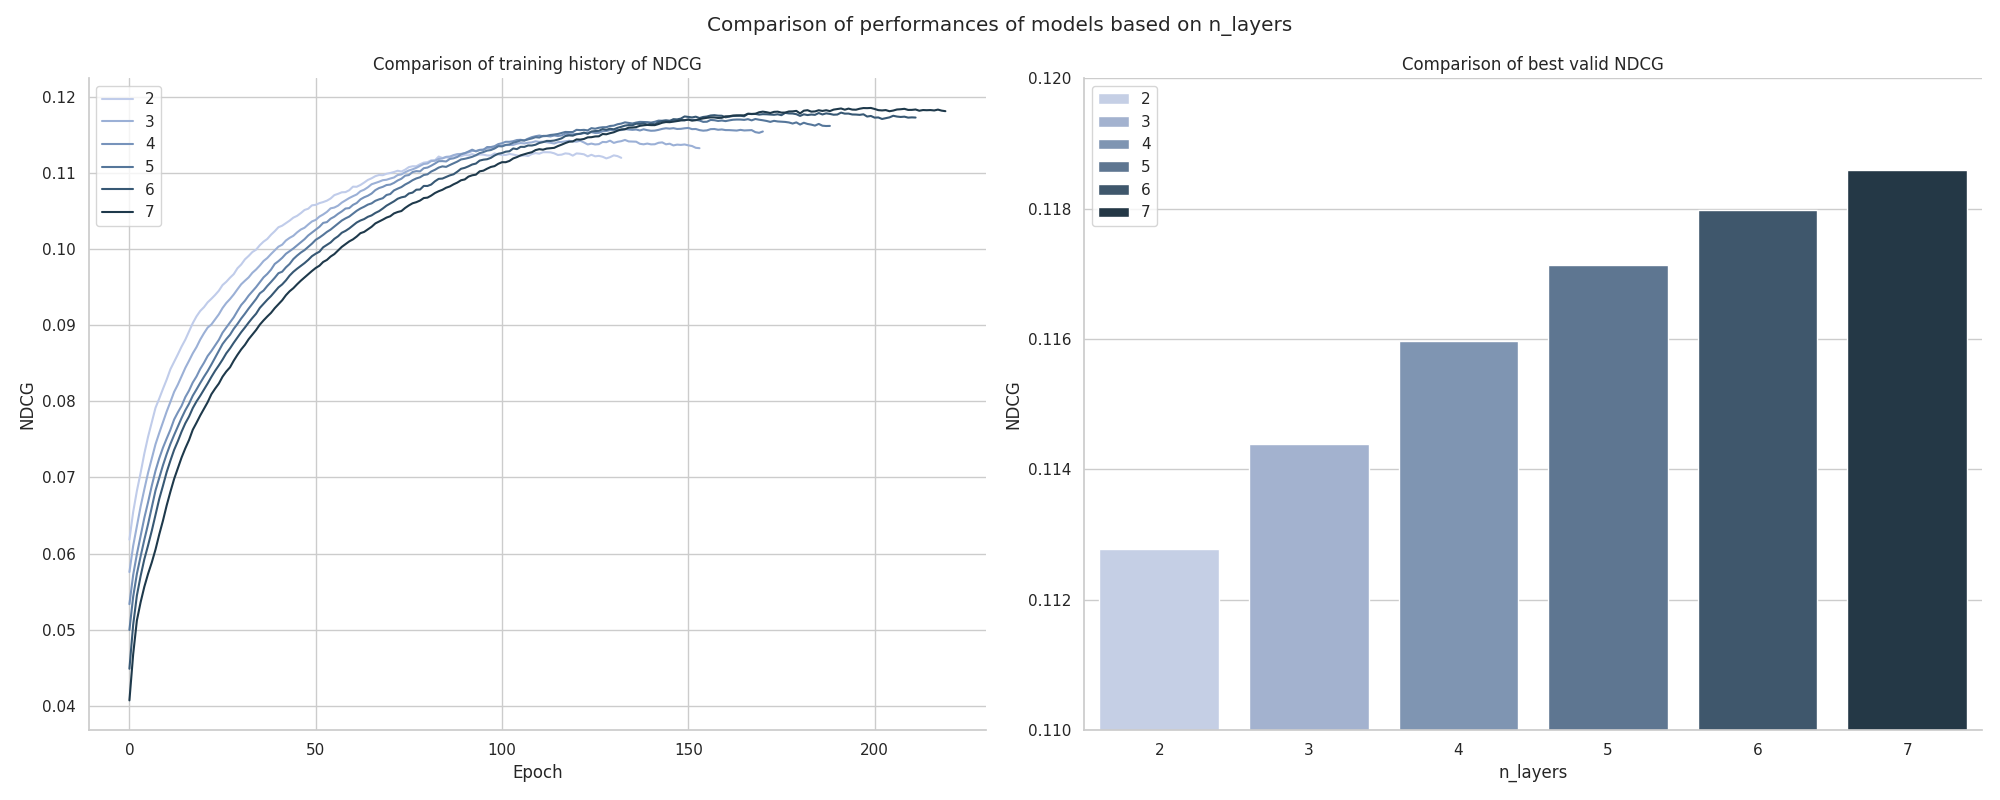
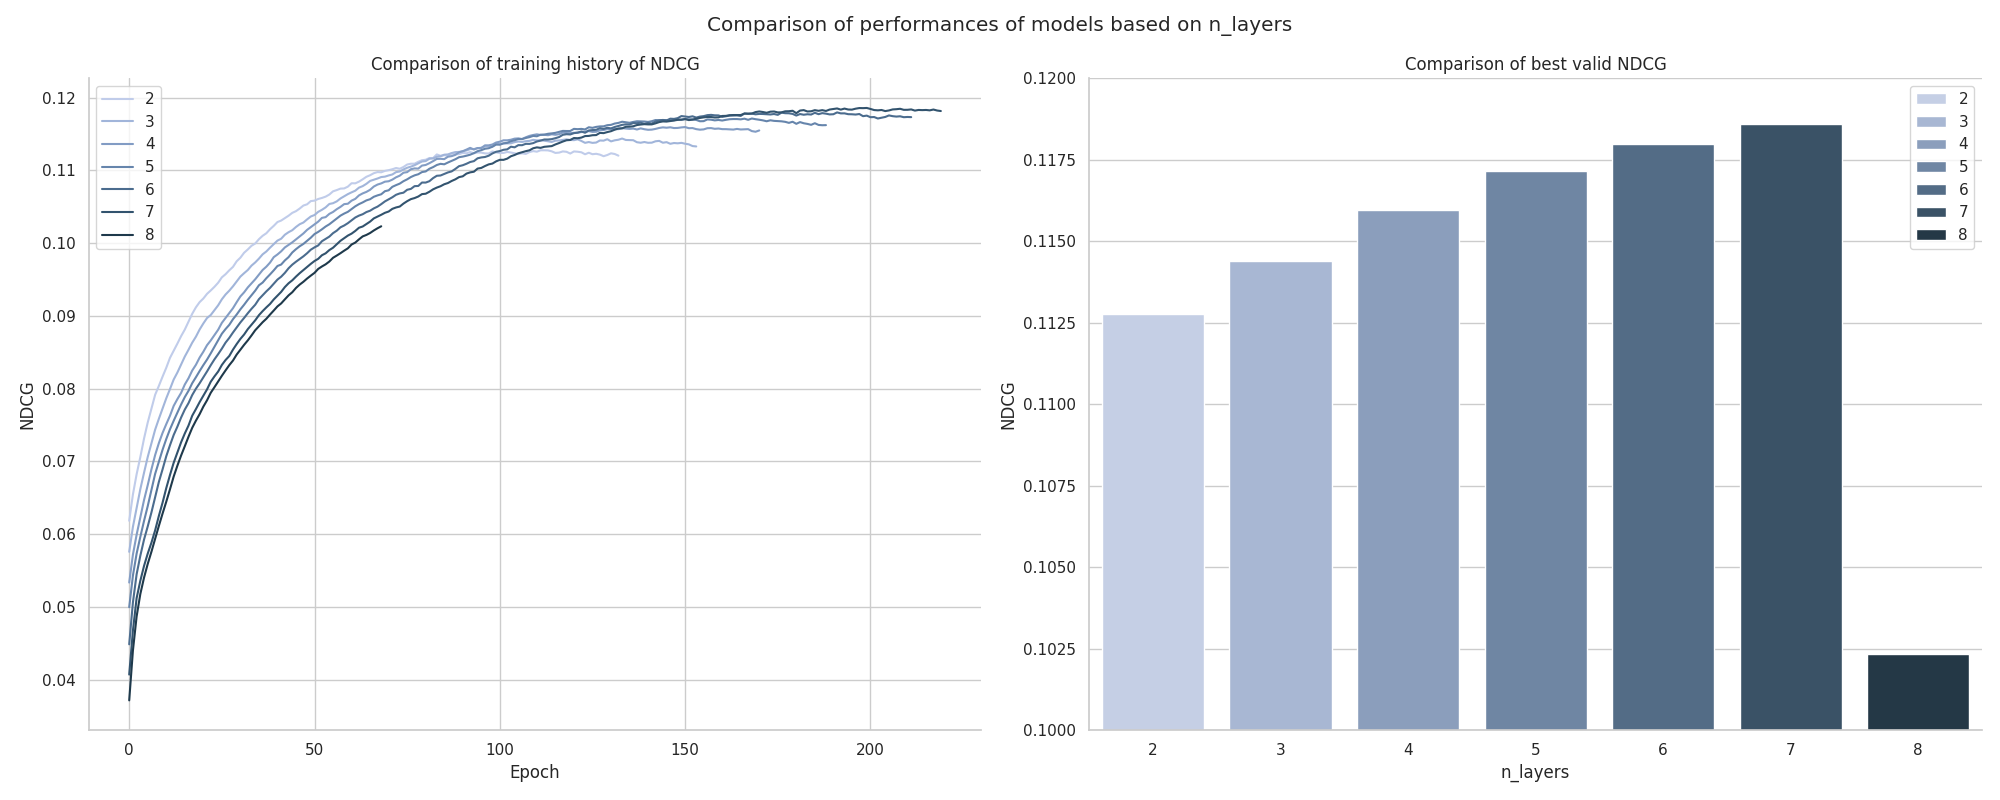
running experiments

diff --git a/evaluation/compare_models.py b/evaluation/compare_models.py
@@ -122,7 +122,7 @@ def plot_comparisons_two_targets(names, targets, config_path, target_name=None, 
     results = pd.concat(results, axis=0)
 
     plot_history_line(results, ax1, palette)
-    plot_ndcg_bar(results, ax2, palette[::results["sub_target"].nunique()], target_name, sub_target_name)
+    plot_ndcg_bar(results, ax2, palette[::results["main_target"].nunique()], target_name, sub_target_name)
 
     folder_path = f"../results/{cfg.dataset.country}/plots/comparisons/"
     os.makedirs(folder_path, exist_ok=True)
@@ -136,7 +136,7 @@ if __name__ == "__main__":
     targets = ["model", "embedding_dim"]
     plot_comparisons_one_target(names, targets, config_path)
 
-    names = ["n_layers_2", "baseline", "n_layers_4", "n_layers_5", "n_layers_6", "n_layers_7"]
+    names = ["n_layers_2", "baseline", "n_layers_4", "n_layers_5", "n_layers_6", "n_layers_7", "n_layers_8"]
     targets = ["model", "n_layers"]
     plot_comparisons_one_target(names, targets, config_path)
 
@@ -163,6 +163,9 @@ if __name__ == "__main__":
 
 
     names = [
+        "emb_512_n_layers_5_reg_0.001",
+        "emb_512_n_layers_5_reg_0.001_gentle_0.1",
+        "emb_512_n_layers_5_reg_0.001_gentle_0.05",
         "emb_512_n_layers_6_reg_0.001",
         "emb_512_n_layers_6_reg_0.001_gentle_0.1",
         "emb_512_n_layers_6_reg_0.001_gentle_0.05",
